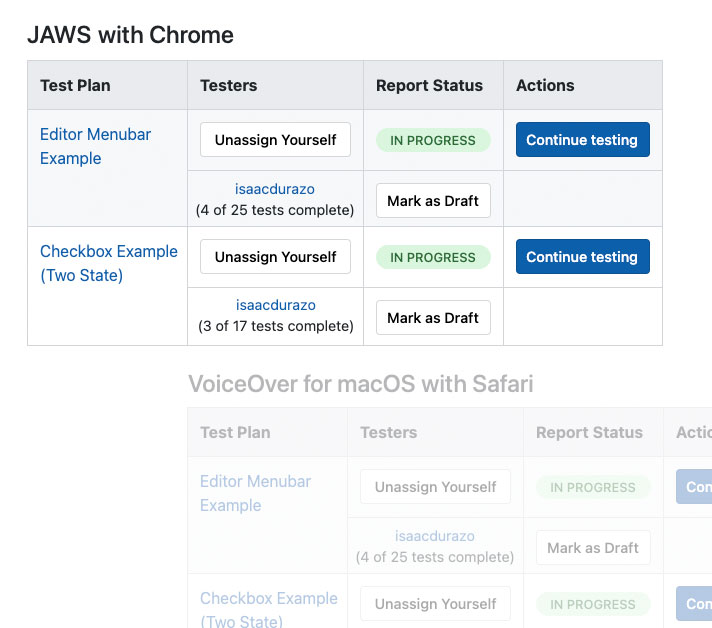
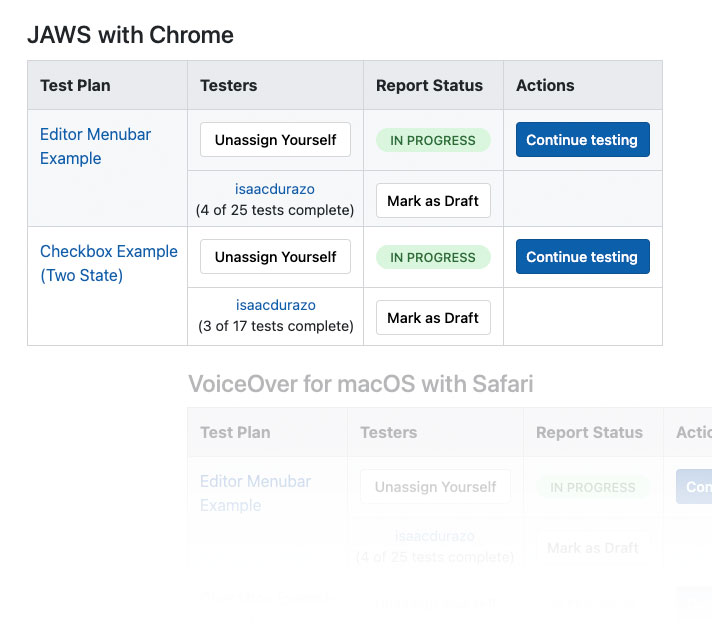
Improving contrast and updating alt text

diff --git a/client/components/Home/index.jsx b/client/components/Home/index.jsx
@@ -88,19 +88,18 @@ class Home extends Component {
                 <section className="app-screenshots">
                     <div className="container">
                         <div className="description">
-                            <h2>Test Management</h2>
+                            <h2>Test Review</h2>
                             <p>
-                                This app allows project administrators to create
-                                Test Runs for managing execution of tests of a
-                                collection of ARIA patterns with a specified set
-                                of assistive technology and browser
-                                combinations.
+                                After multiple runs have been recorded for a
+                                particular Test Plan, users can view a summary
+                                of results, and project administrators can
+                                publish them to the public Reports page.
                             </p>
                         </div>
                         <div className="screenshot">
                             <img
-                                src={testManagementScreenshot}
-                                alt="This page has two main sections: test run configuration and test plans. From the “configure active runs” section, the user can select a git commit of tests and define the assistive technology and browser combinations they want the testers to use for the test runs. In the ”test plans” section, the user is presented with all the test plans available in the system where he can assign testers to specific test plans or assistive technology and browser combinations."
+                                src={testReviewScreenshot}
+                                alt="A table with a summary of the results recorded for a test plan."
                             />
                         </div>
                     </div>
@@ -116,7 +115,7 @@ class Home extends Component {
                         <div className="screenshot">
                             <img
                                 src={testQueueScreenshot}
-                                alt="This page displays all the test plans available to be tested grouped by assistive technology and browser. Each assistive technology and browser combination as a table with the following columns: test plan,  assigned testers, report status and actions."
+                                alt="A Table displaying the Editor Menu bar example and the Checkbox two state example. Both under JAWS with Chrome."
                             />
                         </div>
                     </div>
@@ -133,24 +132,25 @@ class Home extends Component {
                         <div className="screenshot">
                             <img
                                 src={testViewScreenshot}
-                                alt="This page displays a test plan being ran, it has instructions for how to execute the test and record results. As part of the actions in this page, the user can: raise an issue, re-do the test, save and close, navigate to the previous and next test as well as skip it without necessarily having to record results."
+                                alt="A test plan being ran, where the test navigator with the list of tasks is highlighted."
                             />
                         </div>
                     </div>
                     <div className="container">
                         <div className="description">
-                            <h2>Test Review</h2>
+                            <h2>Test Management</h2>
                             <p>
-                                After multiple runs have been recorded for a
-                                particular Test Plan, users can view a summary
-                                of results, and project administrators can
-                                publish them to the public Reports page.
+                                This app allows project administrators to create
+                                Test Runs for managing execution of tests of a
+                                collection of ARIA patterns with a specified set
+                                of assistive technology and browser
+                                combinations.
                             </p>
                         </div>
                         <div className="screenshot">
                             <img
-                                src={testReviewScreenshot}
-                                alt="This page displays a table with a summary of the results recorded for a test plan. As part of the actions in this page, the user can: raise an issue, re-do the test, close, and edit."
+                                src={testManagementScreenshot}
+                                alt="The current git commit for a Test run and the option to select a different one from a dropdown menu"
                             />
                         </div>
                     </div>

diff --git a/client/components/App/App.css b/client/components/App/App.css
@@ -336,7 +336,7 @@ main.home-page.container h1 {
 .hero-section p {
     font-weight: 400;
     font-size: 1.2em;
-    color: #70859f;
+    color: #5c728e;
 }
 
 .hero-illustration {
@@ -362,7 +362,7 @@ main.home-page.container h1 {
 .app-screenshots .description p {
     font-weight: 400;
     font-size: 1.2em;
-    color: #70859f;
+    color: #5c728e;
 }
 
 .app-screenshots .description h2 {
